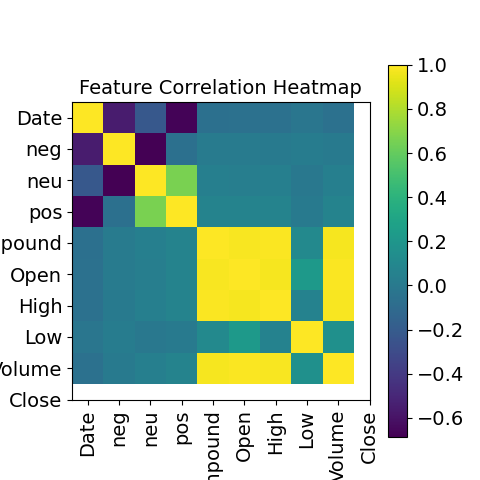
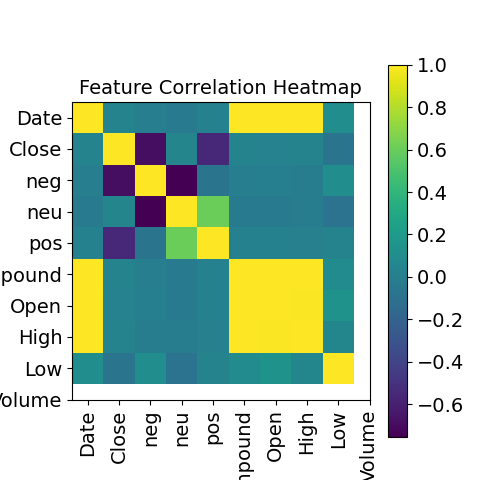
working LSTM

diff --git a/models/lstm.py b/models/lstm.py
@@ -1,7 +1,14 @@
 import pandas as pd
+import numpy as np
+import keras
 import matplotlib.pyplot as plt
-import tensorflow as tf
-from tensorflow import keras
+from sklearn.preprocessing import MinMaxScaler
+from pandas.plotting import register_matplotlib_converters
+register_matplotlib_converters()
+from keras.preprocessing.sequence import TimeseriesGenerator
+from keras.models import Sequential
+from keras.layers import Dense
+from keras.layers import LSTM
 import warnings
 warnings.filterwarnings('ignore')
 
@@ -46,178 +53,105 @@ colors = [
 
 date_time_key = "Date"
 
-#################################################
+################################################
 
-# def show_raw_visualization(data):
-#     time_data = data[date_time_key]
-#     fig, axes = plt.subplots(
-#         nrows=5, ncols=2, figsize=(15, 20), dpi=80, facecolor="w", edgecolor="k"
-#     )
-#     for i in range(len(feature_keys)):
-#         key = feature_keys[i]
-#         c = colors[i % (len(colors))]
-#         t_data = data[key]
-#         t_data.index = time_data
-#         t_data.head()
-#         ax = t_data.plot(
-#             ax=axes[i // 2, i % 2],
-#             color=c,
-#             title="{}".format(titles[i]),
-#             rot=25,
-#         )
-#         ax.legend([titles[i]])
-#     plt.tight_layout()
-#     plt.savefig('figures/periodicity_sentiment_price_data.png')
-#     plt.show()
-#
-#
-# show_raw_visualization(df)
-#
-# #################################################
-#
-# def show_heatmap(data):
-#     plt.matshow(data.corr())
-#     plt.xticks(range(data.shape[1]), data.columns, fontsize=14, rotation=90)
-#     plt.gca().xaxis.tick_bottom()
-#     plt.yticks(range(data.shape[1]), data.columns, fontsize=14)
-#
-#     cb = plt.colorbar()
-#     cb.ax.tick_params(labelsize=14)
-#     plt.title("Feature Correlation Heatmap", fontsize=14)
-#     plt.savefig('figures/correlation_heatmap.png')
-#     plt.show()
-#
-#
-# show_heatmap(df)
-
-"""Preprocessing"""
-# using trailing 30 days of data
-# price 3 days into the future will be used as label => 3
-
-split_fraction = 0.715
-train_split = int(split_fraction * int(df.shape[0]))
-step = 6
-
-past = 30
-future = 3
-learning_rate = 0.001
-batch_size = 256
-epochs = 10
-
-#################################################
+def show_raw_visualization(data):
+    time_data = data[date_time_key]
+    fig, axes = plt.subplots(
+        nrows=5, ncols=2, figsize=(15, 20), dpi=80, facecolor="w", edgecolor="k"
+    )
+    for i in range(len(feature_keys)):
+        key = feature_keys[i]
+        c = colors[i % (len(colors))]
+        t_data = data[key]
+        t_data.index = time_data
+        t_data.head()
+        ax = t_data.plot(
+            ax=axes[i // 2, i % 2],
+            color=c,
+            title="{}".format(titles[i]),
+            rot=25,
+        )
+        ax.legend([titles[i]])
+    plt.tight_layout()
+    plt.savefig('figures/periodicity_sentiment_price_data.png')
+    # plt.show()
 
 
-def normalize(data, train_split):
-    data_mean = data[:train_split].mean(axis=0)
-    data_std = data[:train_split].std(axis=0)
-    return (data - data_mean) / data_std
+def show_heatmap(data):
+    plt.matshow(data.corr())
+    plt.xticks(range(data.shape[1]), data.columns, fontsize=14, rotation=90)
+    plt.gca().xaxis.tick_bottom()
+    plt.yticks(range(data.shape[1]), data.columns, fontsize=14)
+
+    cb = plt.colorbar()
+    cb.ax.tick_params(labelsize=14)
+    plt.title("Feature Correlation Heatmap", fontsize=14)
+    plt.savefig('figures/correlation_heatmap.png')
+    # plt.show()
 
 
-print(
-    "The selected parameters are:",
-    ", ".join([titles[i] for i in [0, 1, 2, 3, 4, 5, 6, 7]]),
-)
-selected_features = [feature_keys[i] for i in [0, 1, 2, 3, 4, 5, 6, 7]]
-features = df[selected_features]
-features.index = df[date_time_key]
-print(features.head())
+def time_series_prediction(df):
+    df = df.drop('Date', axis=1)
+    print(df.head())
+    y_col = 'Close' # define y variable, i.e., what we want to predict
 
-features = normalize(features.values, train_split)
-features = pd.DataFrame(features)
-features.head()
+    test_size = int(len(df) * 0.05) # here I ask that the test data will be 10% (0.1) of the entire data
+    train = df.iloc[:-test_size, :].copy() # the copy() here is important, it will prevent us from getting: SettingWithCopyWarning: A value is trying to be set on a copy of a slice from a DataFrame.
+    # Try using .loc[row_index,col_indexer] = value instead
+    test = df.iloc[-test_size:, :].copy()
 
-train_data = features.loc[0: train_split - 1]
-val_data = features.loc[train_split:]
+    X_train = train.drop(y_col,axis=1).copy()
+    y_train = train[[y_col]].copy() # the double brakets here are to keep the y in dataframe format, otherwise it will be pandas Series
 
-#################################################
+    Xscaler = MinMaxScaler(feature_range=(0, 1)) # scale so that all the X data will range from 0 to 1
+    Xscaler.fit(X_train)
+    scaled_X_train = Xscaler.transform(X_train)
+    Yscaler = MinMaxScaler(feature_range=(0, 1))
+    Yscaler.fit(y_train)
+    scaled_y_train = Yscaler.transform(y_train)
+    scaled_y_train = scaled_y_train.reshape(-1) # remove the second dimention from y so the shape changes from (n,1) to (n,)
 
-start = past + future
-end = start + train_split
+    scaled_y_train = np.insert(scaled_y_train, 0, 0)
+    scaled_y_train = np.delete(scaled_y_train, -1)
 
-x_train = train_data[[i for i in range(7)]].values
-y_train = features.iloc[start:end][[1]]
+    n_input = 30 #how many samples/rows/timesteps to look in the past in order to forecast the next sample
+    n_features= X_train.shape[1] # how many predictors/Xs/features we have to predict y
+    b_size = 32 # Number of timeseries samples in each batch
+    generator = TimeseriesGenerator(
+        scaled_X_train,
+        scaled_y_train,
+        length=n_input,
+        batch_size=b_size
+    )
 
-sequence_length = int(past / step)
+    model = Sequential()
+    model.add(LSTM(150, activation='relu', input_shape=(n_input, n_features)))
+    model.add(Dense(1))
+    model.compile(optimizer='adam', loss='mse')
+    print(model.summary())
 
-#################################################
+    model.fit_generator(generator, epochs=50)
 
-dataset_train = keras.preprocessing.timeseries_dataset_from_array(
-    x_train,
-    y_train,
-    sequence_length=sequence_length,
-    sampling_rate=step,
-    batch_size=batch_size,
-)
+    loss_per_epoch = model.history.history['loss']
+    plt.plot(range(len(loss_per_epoch)), loss_per_epoch)
+    # plt.savefig('figures/loss_curve.png')
+    # plt.show()
 
-#################################################
+    X_test = test.drop(y_col,axis=1).copy()
+    scaled_X_test = Xscaler.transform(X_test)
+    test_generator = TimeseriesGenerator(scaled_X_test, np.zeros(len(X_test)), length=n_input, batch_size=b_size)
 
-x_end = len(val_data) - past - future
+    y_pred_scaled = model.predict(test_generator)
+    y_pred = Yscaler.inverse_transform(y_pred_scaled)
+    results = pd.DataFrame({'y_true':test[y_col].values[n_input:], 'y_pred': y_pred.ravel()})
 
-label_start = train_split + past + future
-
-x_val = val_data.iloc[:x_end][[i for i in range(7)]].values
-y_val = features.iloc[label_start:][[1]]
-
-dataset_val = keras.preprocessing.timeseries_dataset_from_array(
-    x_val,
-    y_val,
-    sequence_length=sequence_length,
-    sampling_rate=step,
-    batch_size=batch_size,
-)
-
-
-for batch in dataset_train.take(1):
-    inputs, targets = batch
-
-print("Input shape:", inputs.numpy().shape)
-print("Target shape:", targets.numpy().shape)
-
-#################################################
-
-inputs = keras.layers.Input(shape=(inputs.shape[1], inputs.shape[2]))
-lstm_out = keras.layers.LSTM(32)(inputs)
-outputs = keras.layers.Dense(1)(lstm_out)
-
-model = keras.Model(inputs=inputs, outputs=outputs)
-model.compile(optimizer=keras.optimizers.Adam(learning_rate=learning_rate), loss="mse")
-model.summary()
-
-#################################################
-
-path_checkpoint = "model_checkpoint.h5"
-es_callback = keras.callbacks.EarlyStopping(monitor="val_loss", min_delta=0, patience=5)
-
-modelckpt_callback = keras.callbacks.ModelCheckpoint(
-    monitor="val_loss",
-    filepath=path_checkpoint,
-    verbose=1,
-    save_weights_only=True,
-    save_best_only=True,
-)
-
-history = model.fit(
-    dataset_train,
-    epochs=epochs,
-    validation_data=dataset_val,
-    callbacks=[es_callback, modelckpt_callback],
-)
-
-#################################################
+    results.plot()
+    plt.savefig('figures/time_series_predictions.png')
+    # plt.show()
 
 
-def visualize_loss(history, title):
-    loss = history.history["loss"]
-    val_loss = history.history["val_loss"]
-    epochs = range(len(loss))
-    plt.figure()
-    plt.plot(epochs, loss, "b", label="Training loss")
-    plt.plot(epochs, val_loss, "r", label="Validation loss")
-    plt.title(title)
-    plt.xlabel("Epochs")
-    plt.ylabel("Loss")
-    plt.legend()
-    plt.show()
-
-
-visualize_loss(history, "Training and Validation Loss")
+if __name__ == "__main__":
+    show_raw_visualization(df)
+    show_heatmap(df)
+    time_series_prediction(df)

diff --git a/scripts/training_join.py b/scripts/training_join.py
@@ -29,9 +29,9 @@ def aggregate_sentiment_scores(subreddit:str):
     # re order columns to group by sentiment score first, then price data, with 'Close' as last column for label
     training_df = training_df.reindex(
         columns=[
+            'Close',  # label
             'neg', 'neu', 'pos', 'compound', # sentiment scores
             'Open', 'High', 'Low', 'Volume', # price data
-            'Close' # label
         ]
     )
     training_df.to_csv('dataset/training_data.csv')
